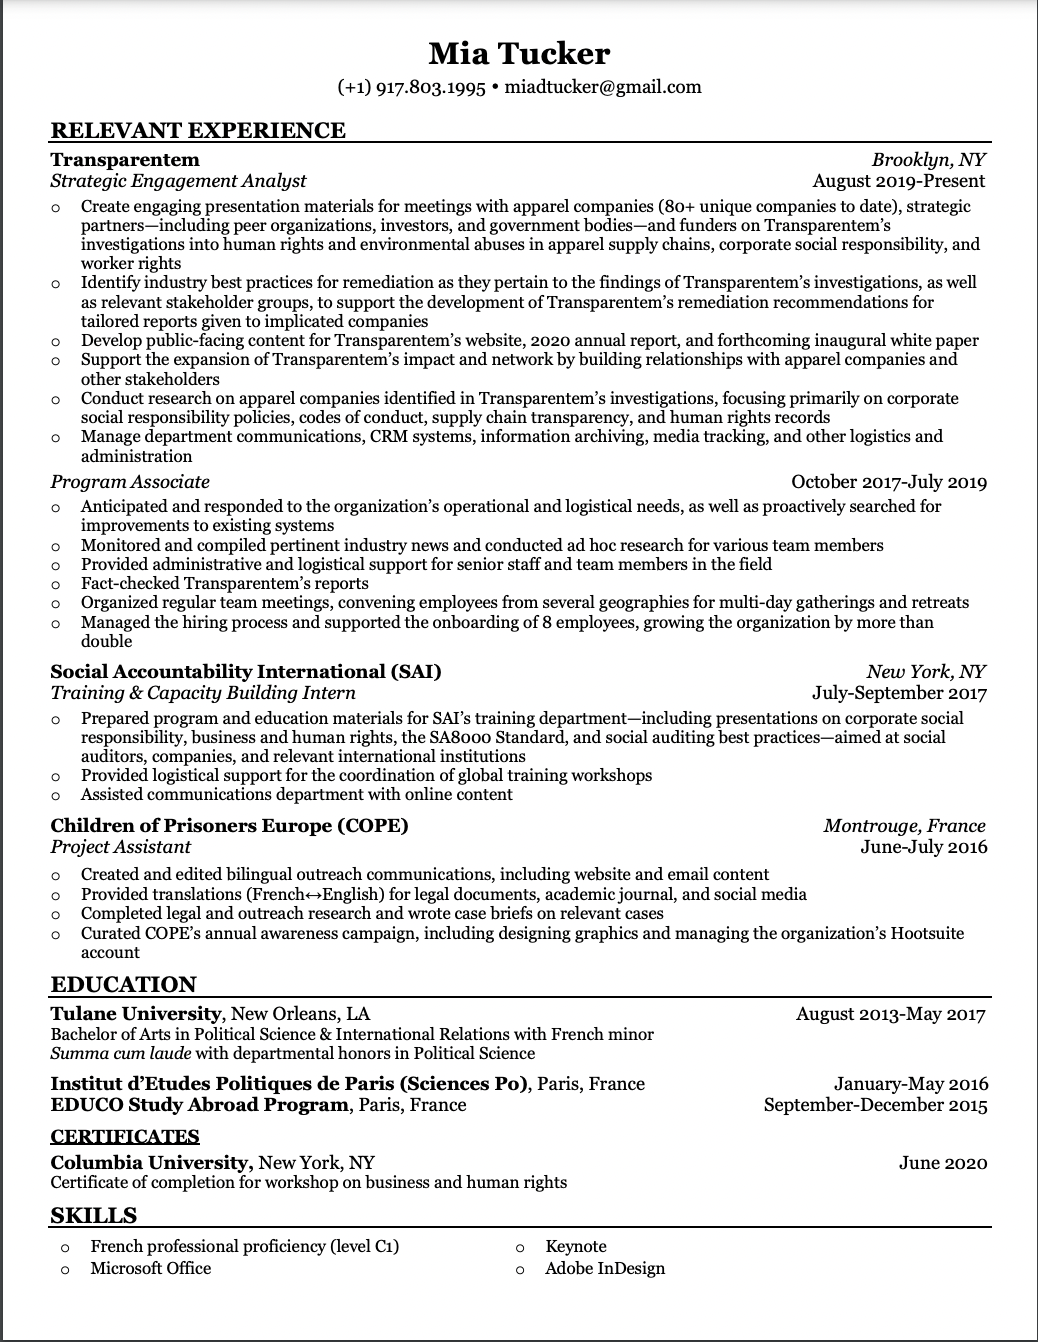
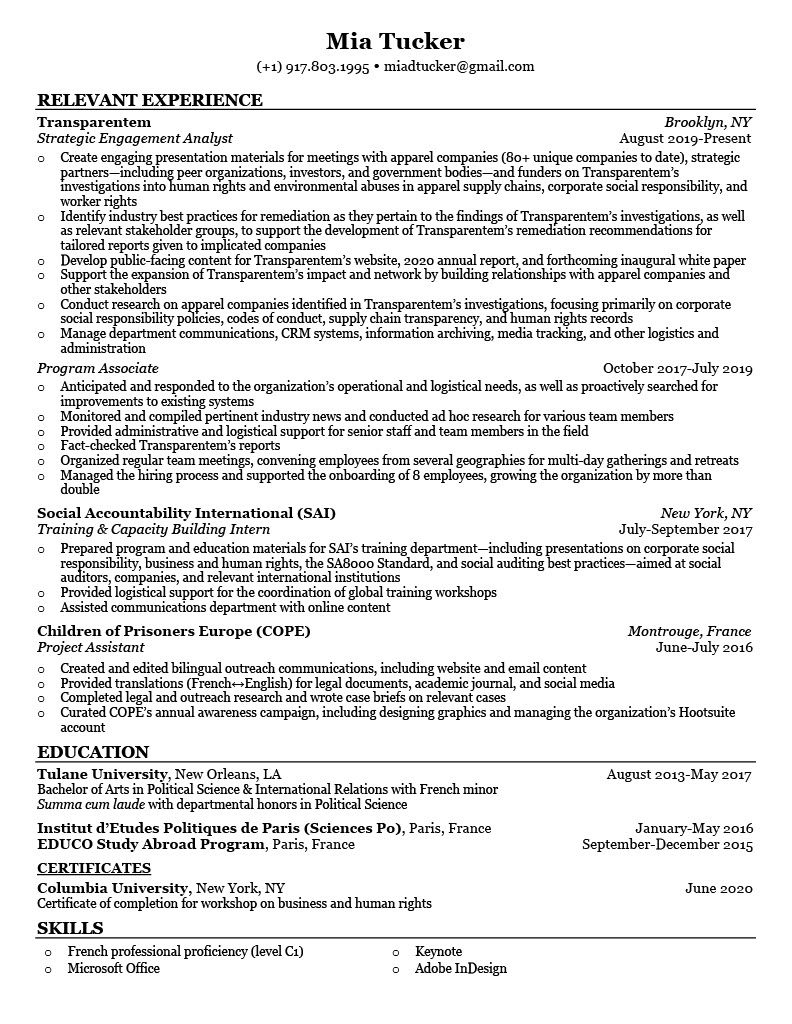
updated profile

diff --git a/index.html b/index.html
@@ -7,38 +7,41 @@
   <title>Mia Resume</title>
 
   <style>
-	body {background-color: rgb(230, 110, 225)}
-	img {width:700px;height:700px;style=text-align:center;}
-	
+	body {background-color: rgb(230, 110, 225);font-family: 'Open Sans', sans-serif;font-size:3em;
+	text-align:center;}
+	img {width:500px;height:700px;style=text-align:center;font-family: 'Open Sans', sans-serif;}
+	#profile {
+
+ 
+	border-radius: 50%;
+	width: 120px;
+  	height: 120px;
+  	overflow: hidden;
+	}
+	#contactinfo{
+	font-size:0.4em;
+	}
+
+
 </style>
 
-  <link rel="stylesheet" href="/assets/css/styles.css">
-  <link rel="stylesheet" href="/assets/css/print.css" media="print">
+<link href="https://fonts.googleapis.com/css2?family=Open+Sans:wght@300&display=swap" rel="stylesheet">
 
-  <meta name="description" content="Page description">
-  <meta property="og:title" content="Unique page title - My Site">
-  <meta property="og:description" content="Page description">
-  <meta property="og:image" content="https://www.mywebsite.com/image.jpg">
-  <meta property="og:image:alt" content="Image description">
-  <meta property="og:locale" content="en_GB">
-  <meta property="og:type" content="website">
-  <meta name="twitter:card" content="summary_large_image">
-  <meta property="og:url" content="https://www.mywebsite.com/page">
-  <link rel="canonical" href="https://www.mywebsite.com/page">
-
-  <link rel="icon" href="/favicon.ico">
-  <link rel="icon" href="/favicon.svg" type="image/svg+xml">
-  <link rel="apple-touch-icon" href="/apple-touch-icon.png">
-  <link rel="manifest" href="/my.webmanifest">
-  <meta name="theme-color" content="#FF00FF">
 </head>
 
 <body>
   <!-- Content -->
-  <div>Mia Tucker Resume</div>
+  <div >
+    <img id = "profile" src = "mia_profile.jpg" alt = "Mia Profile Picrture">
+  </div>
+ 	 <div>Mia Tucker</div>
+  	<div id = "contactinfo">(+1) 917.803.1995 • miadtucker@gmail.com</div>
+
+
+  
+
+  
   <img src="miaresume.jpg" alt="Mia Resume">
 
-  <script src="/assets/js/xy-polyfill.js" nomodule></script>
-  <script src="/assets/js/script.js" type="module"></script>
 </body>
 </html>
